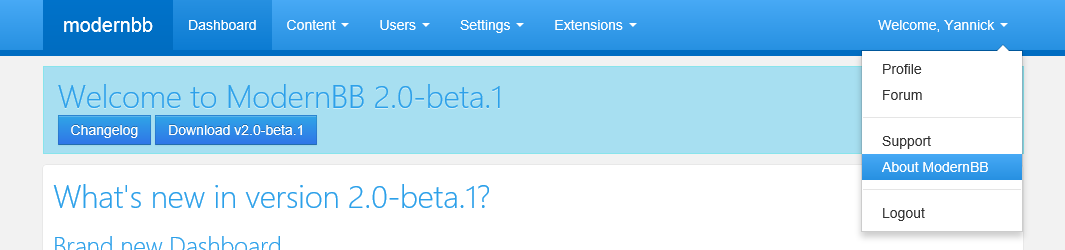
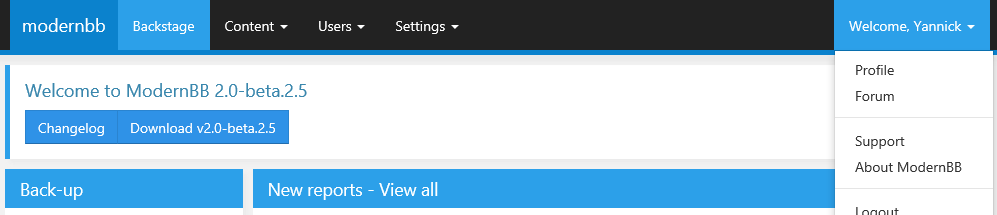
General update

diff --git a/admin/css/style.css b/admin/css/style.css
@@ -366,10 +366,6 @@ button.btn::-moz-focus-inner:, input[type="submit"].btn: {
 	border-left: #f79f13 5px solid;
 }
 
-.alert-update {
-	width: 980px;
-}
-
 .alert-info {
 	border-left: #2ca0e9 5px solid;
 }

diff --git a/include/functions.php b/include/functions.php
@@ -512,23 +512,21 @@ function generate_profile_menu($page = '')
 	global $lang_profile, $pun_config, $pun_user, $id;
 
 ?>
-<div id="profile" class="block2col">
-	<div class="blockmenu">
-		<h2><span><?php echo $lang_profile['Profile menu'] ?></span></h2>
-		<div class="box">
-			<div class="inbox">
-				<ul>
-					<li<?php if ($page == 'essentials') echo ' class="isactive"'; ?>><a href="profile.php?section=essentials&amp;id=<?php echo $id ?>"><?php echo $lang_profile['Section essentials'] ?></a></li>
-					<li<?php if ($page == 'personal') echo ' class="isactive"'; ?>><a href="profile.php?section=personal&amp;id=<?php echo $id ?>"><?php echo $lang_profile['Section personal'] ?></a></li>
-					<li<?php if ($page == 'messaging') echo ' class="isactive"'; ?>><a href="profile.php?section=messaging&amp;id=<?php echo $id ?>"><?php echo $lang_profile['Section messaging'] ?></a></li>
-<?php if ($pun_config['o_avatars'] == '1' || $pun_config['o_signatures'] == '1'): ?>					<li<?php if ($page == 'personality') echo ' class="isactive"'; ?>><a href="profile.php?section=personality&amp;id=<?php echo $id ?>"><?php echo $lang_profile['Section personality'] ?></a></li>
-<?php endif; ?>					<li<?php if ($page == 'display') echo ' class="isactive"'; ?>><a href="profile.php?section=display&amp;id=<?php echo $id ?>"><?php echo $lang_profile['Section display'] ?></a></li>
-					<li<?php if ($page == 'privacy') echo ' class="isactive"'; ?>><a href="profile.php?section=privacy&amp;id=<?php echo $id ?>"><?php echo $lang_profile['Section privacy'] ?></a></li>
-<?php if ($pun_user['g_id'] == FORUM_ADMIN || ($pun_user['g_moderator'] == '1' && $pun_user['g_mod_ban_users'] == '1')): ?>					<li<?php if ($page == 'admin') echo ' class="isactive"'; ?>><a href="profile.php?section=admin&amp;id=<?php echo $id ?>"><?php echo $lang_profile['Section admin'] ?></a></li>
-<?php endif; ?>				</ul>
-			</div>
-		</div>
-	</div>
+<div class="col-md-2 profile-nav">
+    <div class="list-group">
+        <a class="<?php if ($page == 'essentials') echo 'active'; ?> list-group-item" href="profile.php?section=essentials&amp;id=<?php echo $id ?>"><?php echo $lang_profile['Section essentials'] ?></a>
+        <a class="<?php if ($page == 'personal') echo 'active'; ?> list-group-item" href="profile.php?section=personal&amp;id=<?php echo $id ?>"><?php echo $lang_profile['Section personal'] ?></a>
+        <a class="<?php if ($page == 'messaging') echo 'active'; ?> list-group-item" href="profile.php?section=messaging&amp;id=<?php echo $id ?>"><?php echo $lang_profile['Section messaging'] ?></a>
+		<?php if ($pun_config['o_avatars'] == '1' || $pun_config['o_signatures'] == '1'): ?>
+			<a class="<?php if ($page == 'personality') echo 'active'; ?> list-group-item" href="profile.php?section=personality&amp;id=<?php echo $id ?>"><?php echo $lang_profile['Section personality'] ?></a>
+		<?php endif; ?>
+        <a class="<?php if ($page == 'display') echo 'active'; ?> list-group-item" href="profile.php?section=display&amp;id=<?php echo $id ?>"><?php echo $lang_profile['Section display'] ?></a>
+        <a class="<?php if ($page == 'privacy') echo 'active'; ?> list-group-item" href="profile.php?section=privacy&amp;id=<?php echo $id ?>"><?php echo $lang_profile['Section privacy'] ?></a>
+		<?php if ($pun_user['g_id'] == FORUM_ADMIN || ($pun_user['g_moderator'] == '1' && $pun_user['g_mod_ban_users'] == '1')): ?>
+            <a class="<?php if ($page == 'admin') echo 'active'; ?> list-group-item" href="profile.php?section=admin&amp;id=<?php echo $id ?>"><?php echo $lang_profile['Section admin'] ?></a>
+		<?php endif; ?>
+    </div>
+</div>
 <?php
 
 }

diff --git a/categories.php b/categories.php
@@ -169,13 +169,11 @@ require FORUM_ROOT.'admin/header.php';
             <fieldset>
                 <table class="table">
                     <tr>
-                        <th class="span2"><?php echo $lang_admin_categories['Add category label'] ?></th>
+                        <th class="col-md-2"><?php echo $lang_admin_categories['Add category label'] ?></th>
                         <td>
-                            <div class="input-group">
-                                <input type="text" class="form-control"name="new_cat_name" size="35" maxlength="80" placeholder="Category name" tabindex="1" />
-                                <input class="btn btn-primary" type="submit" name="add_cat" value="<?php echo $lang_admin_categories['Add new submit'] ?>" tabindex="2" />
-                                <span class="help-block"><?php printf($lang_admin_categories['Add category help'], '<a href="forums.php">'.$lang_admin_common['Forums'].'</a>') ?></span>
-                            </div>
+                            <input type="text" class="form-control"name="new_cat_name" size="35" maxlength="80" placeholder="Category name" tabindex="1" />
+                            <input class="btn btn-primary" type="submit" name="add_cat" value="<?php echo $lang_admin_categories['Add new submit'] ?>" tabindex="2" />
+                            <span class="help-block"><?php printf($lang_admin_categories['Add category help'], '<a href="forums.php">'.$lang_admin_common['Forums'].'</a>') ?></span>
                         </td>
                     </tr>
                 </table>
@@ -193,21 +191,19 @@ require FORUM_ROOT.'admin/header.php';
             <fieldset>
                 <table class="table">
                     <tr>
-                        <th class="span2">
+                        <th class="col-md-2">
                             <?php echo $lang_admin_categories['Delete category label'] ?>
                         </th>
                         <td>
-                            <div class="input-group">
-                                <select class="form-control" name="cat_to_delete" tabindex="3">
+                            <select class="form-control" name="cat_to_delete" tabindex="3">
 <?php
 
 foreach ($cat_list as $cur_cat)
 echo "\t\t\t\t\t\t\t\t\t\t\t".'<option value="'.$cur_cat['id'].'">'.pun_htmlspecialchars($cur_cat['cat_name']).'</option>'."\n";
 
 ?>
-                                </select>
-                                <input class="btn btn-danger" type="submit" name="del_cat" value="<?php echo $lang_admin_common['Delete'] ?>" tabindex="4" />
-							</div>
+                            </select>
+                            <input class="btn btn-danger" type="submit" name="del_cat" value="<?php echo $lang_admin_common['Delete'] ?>" tabindex="4" />
                             <span class="help-block"><?php echo $lang_admin_categories['Delete category help'] ?></span>
                         </td>
                     </tr>

diff --git a/forums.php b/forums.php
@@ -412,8 +412,7 @@ require FORUM_ROOT.'admin/header.php';
                     <tr>
                         <th><?php echo $lang_admin_forums['Add forum label'] ?><div></div></th>
                         <td>
-                            <div class="input-group">
-                                <select class="form-control" name="add_to_cat" tabindex="1">
+                            <select class="form-control" name="add_to_cat" tabindex="1">
 <?php
 
 	$result = $db->query('SELECT id, cat_name FROM '.$db->prefix.'categories ORDER BY disp_position') or error('Unable to fetch category list', __FILE__, __LINE__, $db->error());
@@ -426,10 +425,9 @@ require FORUM_ROOT.'admin/header.php';
 		echo "\t\t\t\t\t\t\t\t\t\t\t".'<option value="0" disabled="disabled">'.$lang_admin_forums['No categories exist'].'</option>'."\n";
 
 ?>
-                                </select>
-                                <input type="text" class="form-control"name="new_forum" size="30" maxlength="80" placeholder="Forum name" required="required" />
-								<input class="btn btn-primary" type="submit" name="add_forum" value="<?php echo $lang_admin_forums['Add forum'] ?>" tabindex="2" />
-                            </div>
+                            </select>
+                            <input type="text" class="form-control"name="new_forum" size="30" maxlength="80" placeholder="Forum name" required="required" />
+                            <input class="btn btn-primary" type="submit" name="add_forum" value="<?php echo $lang_admin_forums['Add forum'] ?>" tabindex="2" />
                             <span class="help-block"><?php echo $lang_admin_forums['Add forum help'] ?></span>
                         </td>
                     </tr>
@@ -471,7 +469,7 @@ while ($cur_forum = $db->fetch_assoc($result))
                 <table class="table">
                     <thead>
                         <tr>
-                            <th class="span2"><?php echo $lang_admin_common['Action'] ?></th>
+                            <th class="col-md-2"><?php echo $lang_admin_common['Action'] ?></th>
                             <th class="span4"><?php echo $lang_admin_forums['Position label'] ?></th>
                             <th><?php echo $lang_admin_forums['Forum label'] ?></th>
                         </tr>

diff --git a/aindex.php b/aindex.php
@@ -54,7 +54,7 @@ require FORUM_ROOT.'admin/header.php';
 //Update checking
 $latest_version = trim(@file_get_contents('https://raw.github.com/ModernBB/ModernBB/master/version.txt'));
 if (version_compare(FORUM_VERSION, $latest_version, '<=')) { ?>
-	<div class="alert alert-update">
+	<div class="alert">
 		<h4><?php echo sprintf($lang_admin_common['Available'], $latest_version) ?></h4>
 		<div class="btn-group">
 			<a href="http://modernbb.be/downloads/<?php echo $latest_version ?>.zip" class="btn btn-primary"><?php echo sprintf($lang_admin_common['Download'], $latest_version) ?></a>
@@ -63,7 +63,7 @@ if (version_compare(FORUM_VERSION, $latest_version, '<=')) { ?>
 		<a href="http://modernbb.be/downloads/<?php echo FORUM_VERSION ?>.zip" class="btn btn-default"><?php echo sprintf($lang_admin_common['Download'], FORUM_VERSION) ?></a>
 	</div>
 <?php } else { ?>
-	<div class="alert alert-update alert-info">
+	<div class="alert alert-info">
 		<h4><?php echo $lang_admin_index['ModernBB intro'] ?> <?php echo FORUM_VERSION ?></h4>
 		<div class="btn-group">
 			<a href="http://modernbb.be/changelog.php#modernbb<?php echo FORUM_VERSION ?>" class="btn btn-primary"><?php echo $lang_admin_common['Changelog'] ?></a>

diff --git a/include/common_admin.php b/include/common_admin.php
@@ -95,7 +95,7 @@ function generate_admin_menu($page = '')
             </li>
 <?php } ?>
 		</ul>
-        <ul class="nav navbar-nav pull-right">
+        <ul class="nav navbar-nav navbar-right">
             <li class="dropdown">
                 <a href="#" class="dropdown-toggle" data-toggle="dropdown">
                     <?php echo $lang_admin_common['Welcome'] ?>, <?php print(pun_htmlspecialchars($pun_user['username'])) ?> <b class="caret"></b>
